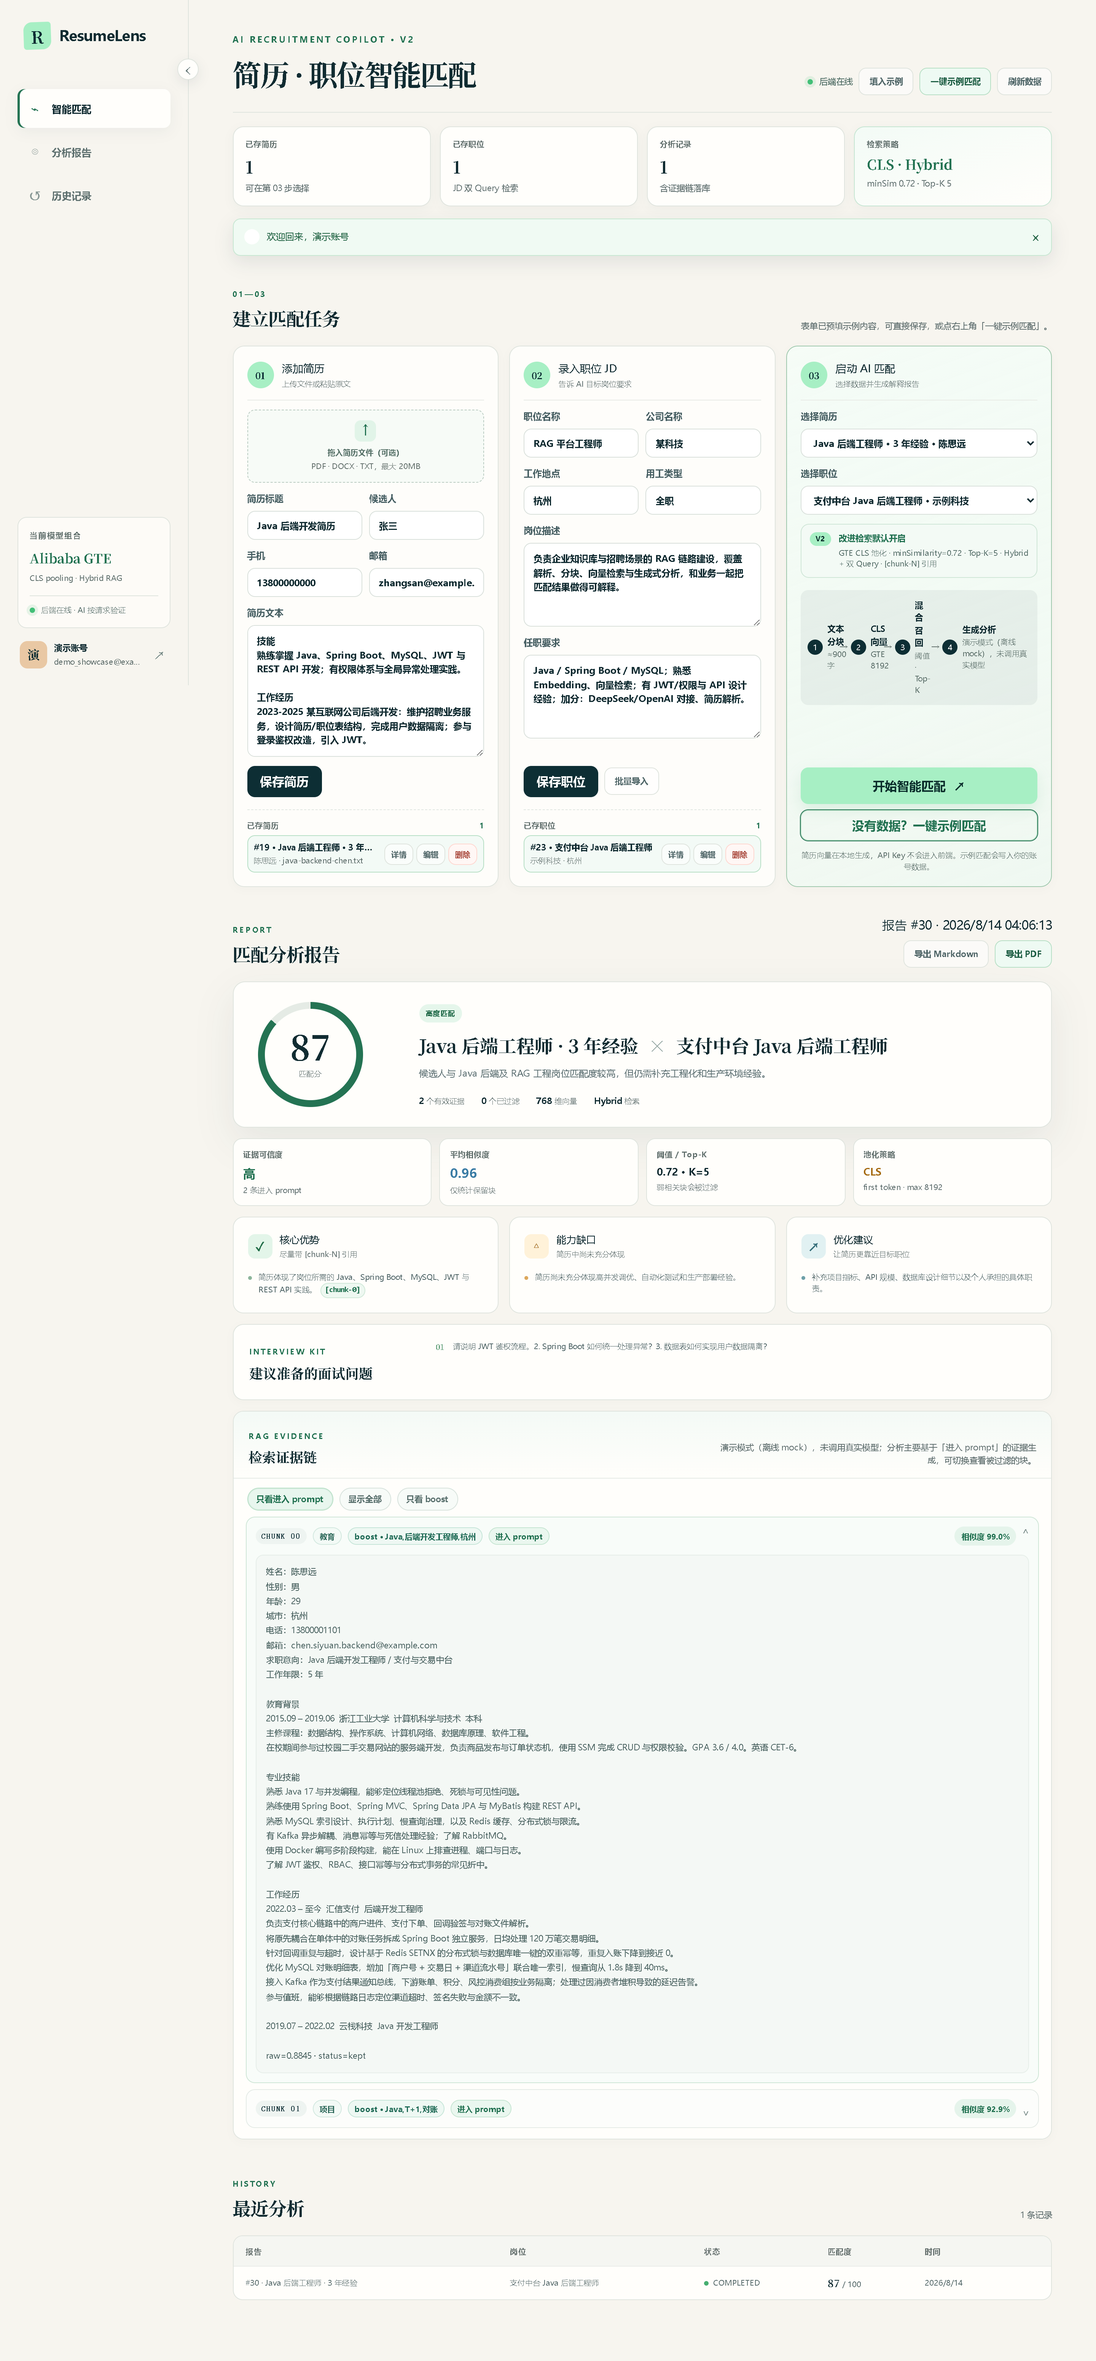
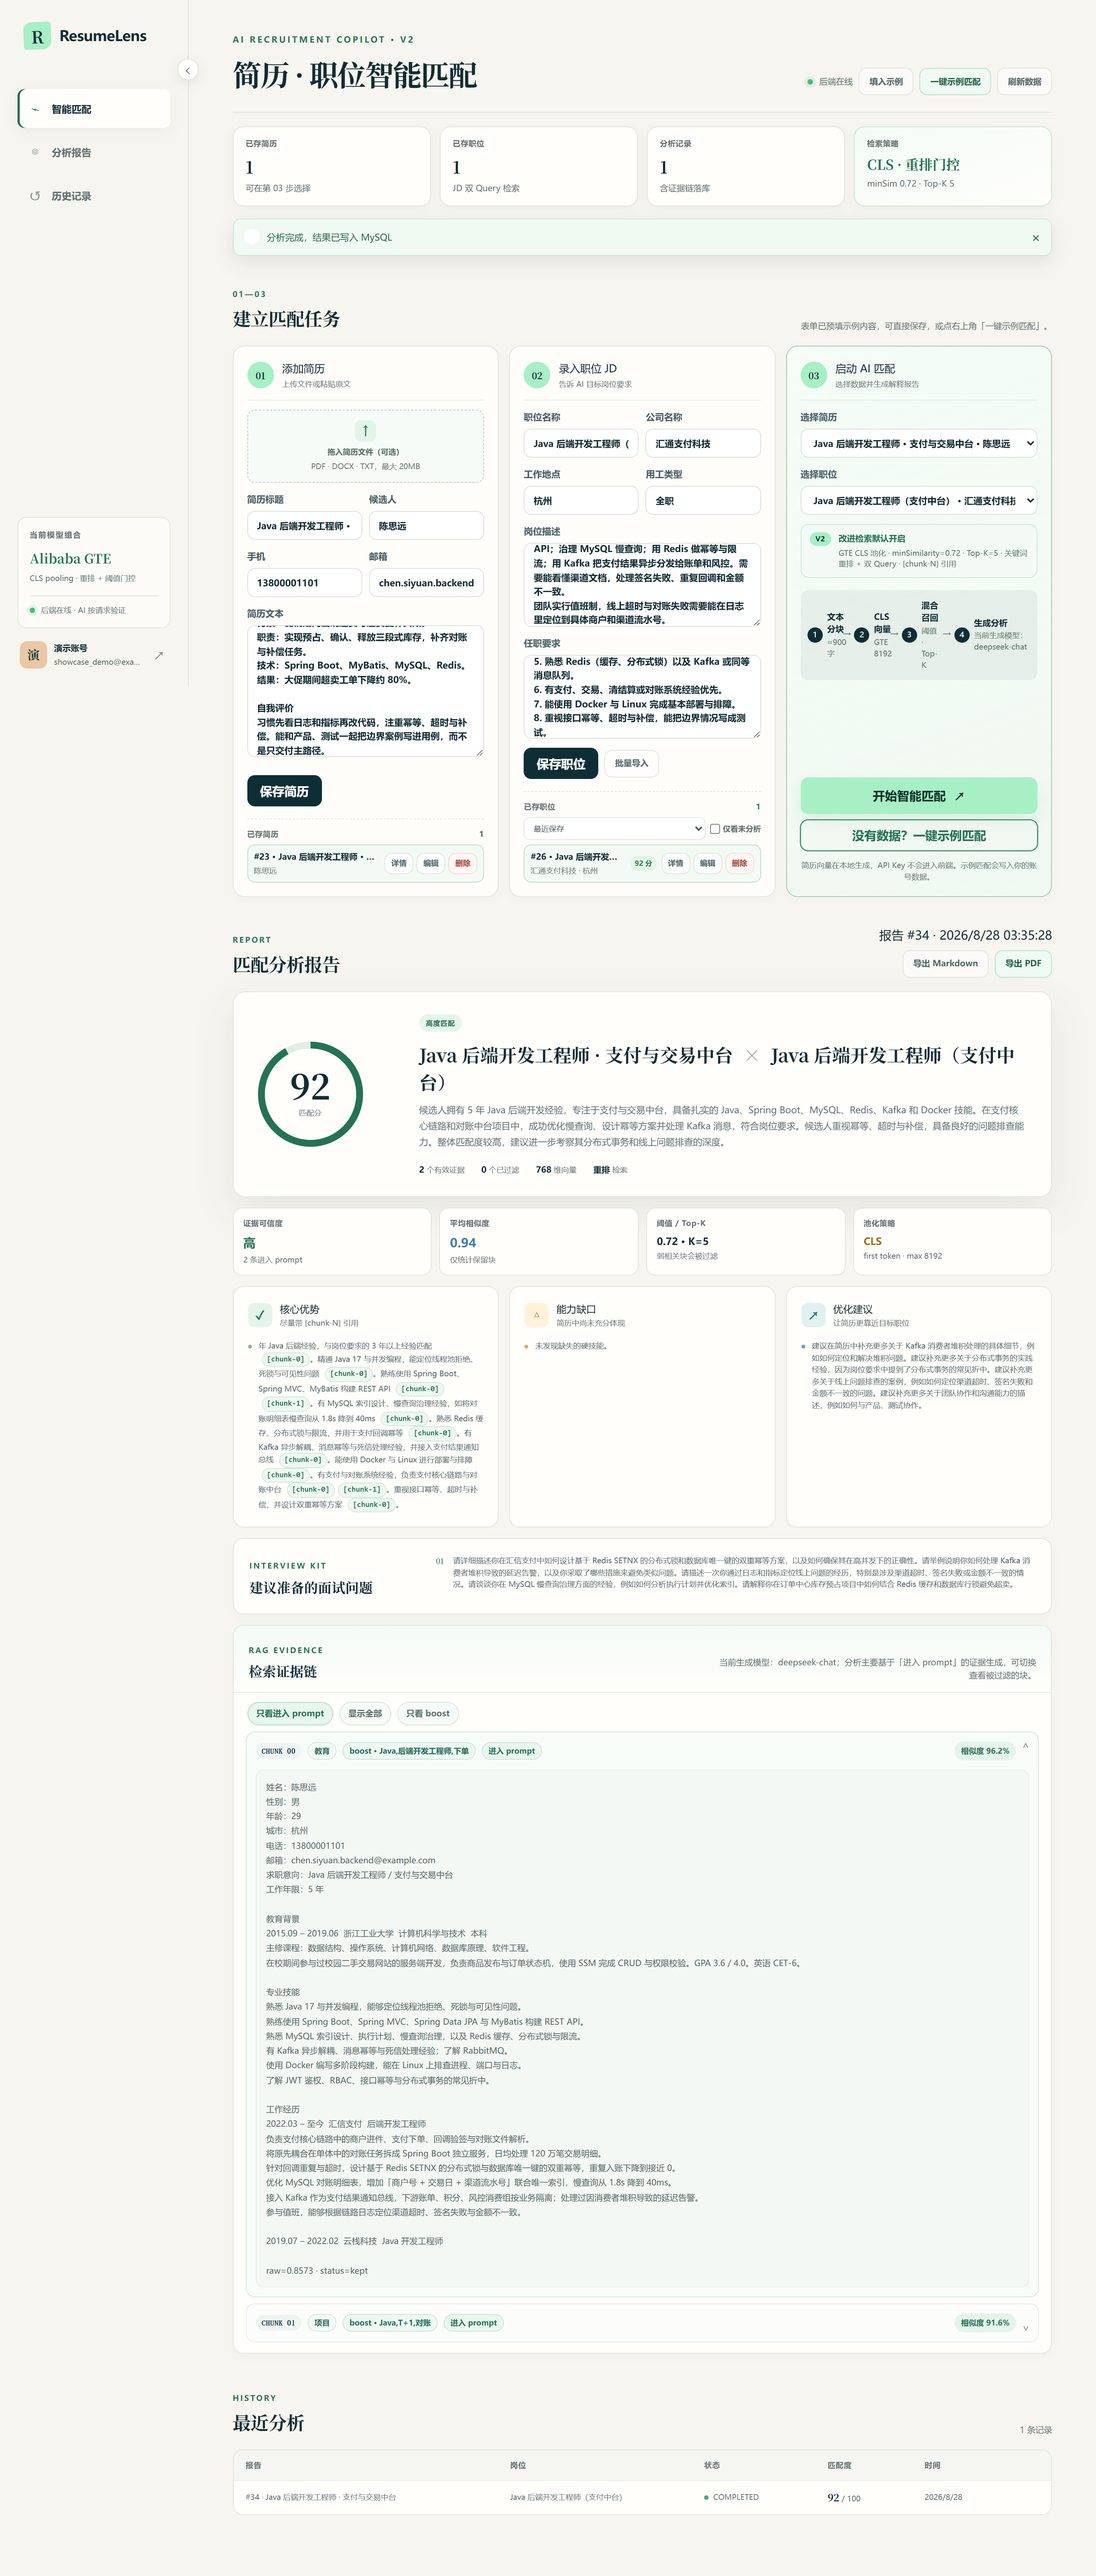
docs: replace mock screenshots with a real DeepSeek run
All five screenshots are retaken against a live stack: MySQL, the local
ONNX embedding model, and a real deepseek-chat request. The report body
is now model-generated rather than the offline mock fixture, so the
"demo mode" note in the README no longer applied.

The evidence panel now shows the live model name instead of the mock
banner, and the quoted retrieval metadata is updated to this run
(raw=0.8573).

diff --git a/README.md b/README.md
@@ -21,8 +21,8 @@
 ## 界面预览
 
 > 以下截图均由本机真实运行的服务截取（Spring Boot + MySQL + 本地 ONNX 向量检索 + Next.js）。
-> 后端以 `AI_MOCK_ENABLED=true` 演示模式运行，因此**报告正文是 mock 生成的文案**，界面也如实标注了这一点；
-> 而**检索链路是真跑的**——分块、CLS 向量化、Lucene 召回、相似度与过阈判定都来自真实计算，截图中的 `raw=0.8845 · status=kept` 即真实检索元数据。
+> 后端以 `AI_MOCK_ENABLED=false` 连接真实 DeepSeek（`deepseek-chat`）运行，**报告正文由真实模型生成**，界面右上角标注了当前生成模型；
+> 检索链路同样是真跑的——分块、CLS 向量化、Lucene 召回、相似度与过阈判定都来自真实计算，截图中的 `raw=0.8573 · status=kept` 即真实检索元数据。
 
 **工作台 · 三步建立匹配任务**
 
